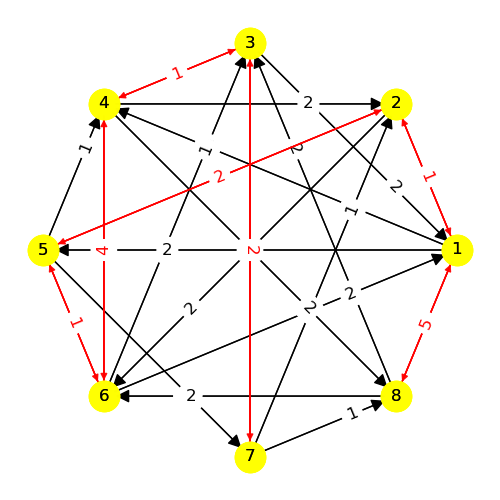
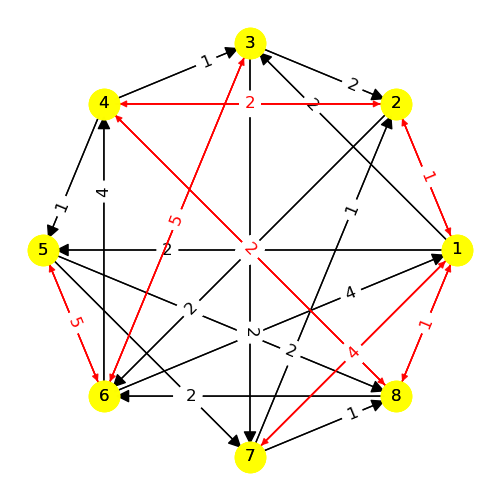
results

diff --git a/figs/model8/README.md b/figs/model8/README.md
@@ -52,76 +52,21 @@
 |---|
 |Phase 13|
 
-|<img src="./model8_phase_13.png" width="100" height="100"> |
-|---|
-|Phase 14|
-
-|<img src="./model8_phase_14.png" width="100" height="100"> |
-|---|
-|Phase 15|
-
-|<img src="./model8_phase_15.png" width="100" height="100"> |
-|---|
-|Phase 16|
-
-|<img src="./model8_phase_16.png" width="100" height="100"> |
-|---|
-|Phase 17|
-
-|<img src="./model8_phase_17.png" width="100" height="100"> |
-|---|
-|Phase 18|
-
-|<img src="./model8_phase_18.png" width="100" height="100"> |
-|---|
-|Phase 19|
-
-|<img src="./model8_phase_19.png" width="100" height="100"> |
-|---|
-|Phase 20|
-
-|<img src="./model8_phase_20.png" width="100" height="100"> |
-|---|
-|Phase 21|
-
-|<img src="./model8_phase_21.png" width="100" height="100"> |
-|---|
-|Phase 22|
-
-|<img src="./model8_phase_22.png" width="100" height="100"> |
-|---|
-|Phase 23|
-
-|<img src="./model8_phase_23.png" width="100" height="100"> |
-|---|
-|Phase 24|
-
 ---
 ## Web Table ##
 ---
-||Phase 1|Phase 2|Phase 3|Phase 4|Phase 5|Phase 6|Phase 7|Phase 8|Phase 9|Phase 10|Phase 11|Phase 12|Phase 13|Phase 14|Phase 15|Phase 16|Phase 17|Phase 18|Phase 19|Phase 20|Phase 21|Phase 22|Phase 23|Phase 24|
-|---|---|---|---|---|---|---|---|---|---|---|---|---|---|---|---|---|---|---|---|---|---|---|---|---|
-Phase 1||1|3|-7|-8||||||||||||||||||||
-Phase 2|||-7|2|3|-1|||||||||||||||||||
-Phase 3||6|||||1|-3|-8||||||||||||||||
-Phase 4|||||||-4|7|1|-8|||||||||||||||
-Phase 5||-7|||||-6||3||8||||||||||||||
-Phase 6||||||||||||1|3|-7|||||||||||
-Phase 7|||-1|6|||||||||||3||||||||||
-Phase 8|||3|-7|-8|||||||1|||||||||||||
-Phase 9|||8||-3|||||||||-6|||||||||||
-Phase 10|||-4|8|7||||||||||||||||||||
-Phase 11|||3|-7|-8||||||||||||||||||||
-Phase 12||||||-1|||||||||3|-7|||||||||
-Phase 13||||||-3|||||||||||1||||||||
-Phase 14||||||7|||1|||||||||-4|||||||
-Phase 15|||||||-3|||||-1|||||||6||||||
-Phase 16||||||||||||7||||||||-1|||||
-Phase 17|||||||||||||-1||||||||3||||
-Phase 18||||||||||||||4||||||||1|||
-Phase 19|||||||||||||||-6||||||||-3||
-Phase 20||||||||||||||||1||||||||-7|
-Phase 21||||||||||||-1|||||-3||||||||
-Phase 22||||||||||||||||||-1|4||||||
-Phase 23||||||||||||||||||-6|3||||||
-Phase 24||||||1||||||||||||||7|||||
+||Phase 1|Phase 2|Phase 3|Phase 4|Phase 5|Phase 6|Phase 7|Phase 8|Phase 9|Phase 10|Phase 11|Phase 12|Phase 13|
+|---|---|---|---|---|---|---|---|---|---|---|---|---|---|
+Phase 1||1|3|-7, -8||||||||||
+Phase 2|||-7|2, 3|-1|||||||||
+Phase 3||-3, 6||||1, -8||||||||
+Phase 4||7||||1, -4|-8|||||||
+Phase 5|||||1|||3|-7|||||
+Phase 6|||-1|6|||||3|||||
+Phase 7|||-4|7, 8||||||||||
+Phase 8|||||-3|||||1||||
+Phase 9|||||7|1|||||-4|||
+Phase 10||||||||-1||||3||
+Phase 11|||||||||4||||1|
+Phase 12|||||-1|||||-3||||
+Phase 13|||||||||||-1, 4|||

diff --git a/figs/model12/README.md b/figs/model12/README.md
@@ -56,42 +56,22 @@
 |---|
 |Phase 14|
 
-|<img src="./model12_phase_14.png" width="100" height="100"> |
-|---|
-|Phase 15|
-
-|<img src="./model12_phase_15.png" width="100" height="100"> |
-|---|
-|Phase 16|
-
-|<img src="./model12_phase_16.png" width="100" height="100"> |
-|---|
-|Phase 17|
-
-|<img src="./model12_phase_17.png" width="100" height="100"> |
-|---|
-|Phase 18|
-
 ---
 ## Web Table ##
 ---
-||Phase 1|Phase 2|Phase 3|Phase 4|Phase 5|Phase 6|Phase 7|Phase 8|Phase 9|Phase 10|Phase 11|Phase 12|Phase 13|Phase 14|Phase 15|Phase 16|Phase 17|Phase 18|
-|---|---|---|---|---|---|---|---|---|---|---|---|---|---|---|---|---|---|---|
-Phase 1||1, -6|-1, 6|3, -8|4, -7||||||||||||||
-Phase 2|-1, -6||1, 6|||3|-4, -7|5|-8||||||||||
-Phase 3|1, -5|-1, 5|4, -6||2, -8|||||3|-4, 6|-7|||||||
-Phase 4|-3|||-7|6|1|||-6|-1|||7||||||
-Phase 5|-4||-1||||-6||8|6||||-7|-8||||
-Phase 6||-3, 5||-1, 4, -6, 7||||||1, 6, -7||||||-4|||
-Phase 7||4, 5|||-3, -6|||||6|1|||||3|-7||
-Phase 8||1, 3, -4, -5, 6, -7|||||||||||||||||
-Phase 9||8||-1, -6|1, 6||||||||||||||
-Phase 10|||-3, -4|1, 7|-5, -6|-1, -7|5, 6||||||||||||
-Phase 11|||3, -3, 4, -4, 5, -5, 6, -6||||-1, 2, -7, 8||||||||||||
-Phase 12|||7|-3, -5|1, 4|3, 5|-1, -4|||||||||||6|
-Phase 13||||1, -1, 7, -7|||||||||||||||
-Phase 14|||||-1, -4, 6, 7||||||||||||||
-Phase 15|-1|||-4|8|6|||-8|-6|||4||||||
-Phase 16|||1|-4, -6|3, 7|4, 6|-3, -7|||||||||||5|
-Phase 17|||||||1, 3, 4, 5, 6, 7||||||||||||
-Phase 18|-3, 4|3, -4|1||-2, 8||||||-1, 7|-6||||5||-7|
+||Phase 1|Phase 2|Phase 3|Phase 4|Phase 5|Phase 6|Phase 7|Phase 8|Phase 9|Phase 10|Phase 11|Phase 12|Phase 13|Phase 14|
+|---|---|---|---|---|---|---|---|---|---|---|---|---|---|---|
+Phase 1||1, -6|-1, 6|3, -8|4, -7||||||||||
+Phase 2|-1, -6||1, 6|||3|-4, -7|5|-8||||||
+Phase 3|1, -5|-1, 5|4, -6||2, -8|||||3, -7|-4, 6||||
+Phase 4|-3|||-7|6|1|||-6|-1||7|||
+Phase 5|-4||-1|-8|||-6||8|6|||-7||
+Phase 6||-3, 5||-1, 4, -6, 7||||||1, -4, 6, -7|||||
+Phase 7||4, 5|||-3, -6|||||3, 6|1|||-7|
+Phase 8||1, 3, -4, -5, 6, -7|||||||||||||
+Phase 9||8||-1, -6|1, 6||||||||||
+Phase 10|||-3, -4|1, 7|-5, -6|-1, -7|5, 6||||||||
+Phase 11|||3, -3, 4, -4, 5, -5, 6, -6||||-1, 2, -7, 8||||||||
+Phase 12||||1, -1, 7, -7|||||||||||
+Phase 13|||||-1, -4, 6, 7||||||||||
+Phase 14|||||||1, 3, 4, 5, 6, 7||||||||

diff --git a/figs/model7/README.md b/figs/model7/README.md
@@ -24,34 +24,14 @@
 |---|
 |Phase 6|
 
-|<img src="./model7_phase_6.png" width="100" height="100"> |
-|---|
-|Phase 7|
-
-|<img src="./model7_phase_7.png" width="100" height="100"> |
-|---|
-|Phase 8|
-
-|<img src="./model7_phase_8.png" width="100" height="100"> |
-|---|
-|Phase 9|
-
-|<img src="./model7_phase_9.png" width="100" height="100"> |
-|---|
-|Phase 10|
-
 ---
 ## Web Table ##
 ---
-||Phase 1|Phase 2|Phase 3|Phase 4|Phase 5|Phase 6|Phase 7|Phase 8|Phase 9|Phase 10|
-|---|---|---|---|---|---|---|---|---|---|---|
-Phase 1||-3|4|5|-7||||||
-Phase 2|3||||5|-2|4|-6|-7||
-Phase 3|-4||||||-3||5|7|
-Phase 4|-5|||||-7||3|4||
-Phase 5|7|-6||||5||4|-3|-2|
-Phase 6||2||5|-6||-7||||
-Phase 7||-4|3|||5|||||
-Phase 8||6||-7|-2|||||5|
-Phase 9||7|-2|-6|3||||||
-Phase 10|||-7||5|||-4|||
+||Phase 1|Phase 2|Phase 3|Phase 4|Phase 5|Phase 6|
+|---|---|---|---|---|---|---|
+Phase 1||-3, -7|4|5|||
+Phase 2|3, -7|5|||-2, -6|4|
+Phase 3|-4, 5|||||-3, 7|
+Phase 4|4, -5||||3, -7||
+Phase 5||2, -6||5||-7|
+Phase 6||-4|3||5||

diff --git a/figs/model6/README.md b/figs/model6/README.md
@@ -24,24 +24,14 @@
 |---|
 |Phase 6|
 
-|<img src="./model6_phase_6.png" width="100" height="100"> |
-|---|
-|Phase 7|
-
-|<img src="./model6_phase_7.png" width="100" height="100"> |
-|---|
-|Phase 8|
-
 ---
 ## Web Table ##
 ---
-||Phase 1|Phase 2|Phase 3|Phase 4|Phase 5|Phase 6|Phase 7|Phase 8|
-|---|---|---|---|---|---|---|---|---|
-Phase 1||-2, -8|3, 5|4|-7||||
-Phase 2|2||4||-8|3|-4||
-Phase 3|-3|-7||5||-2|7||
-Phase 4|-4||-2, -8|||||-7|
-Phase 5|7|3, 5||||||4|
-Phase 6||-3, -4|2, 7||||||
-Phase 7||3, 4|-3, -4||||||
-Phase 8||||7|-4||||
+||Phase 1|Phase 2|Phase 3|Phase 4|Phase 5|Phase 6|
+|---|---|---|---|---|---|---|
+Phase 1||-2, 3, 5, -8|4, -7||||
+Phase 2|2|4|-8|3|-4||
+Phase 3|-4|-2, -8||||-7|
+Phase 4||2, -3, -4, 7|||||
+Phase 5||3, -3, 4, -4|||||
+Phase 6|||-4, 7||||

diff --git a/figs/model5/README.md b/figs/model5/README.md
@@ -12,16 +12,11 @@
 |---|
 |Phase 3|
 
-|<img src="./model5_phase_3.png" width="200" height="200"> |
-|---|
-|Phase 4|
-
 ---
 ## Web Table ##
 ---
-||Phase 1|Phase 2|Phase 3|Phase 4|
-|---|---|---|---|---|
-Phase 1||4, -6|||
-Phase 2|||1|-4|
-Phase 3||||-1|
-Phase 4|||4||
+||Phase 1|Phase 2|Phase 3|
+|---|---|---|---|
+Phase 1||4, -6||
+Phase 2|||1, -4|
+Phase 3|||-1|
